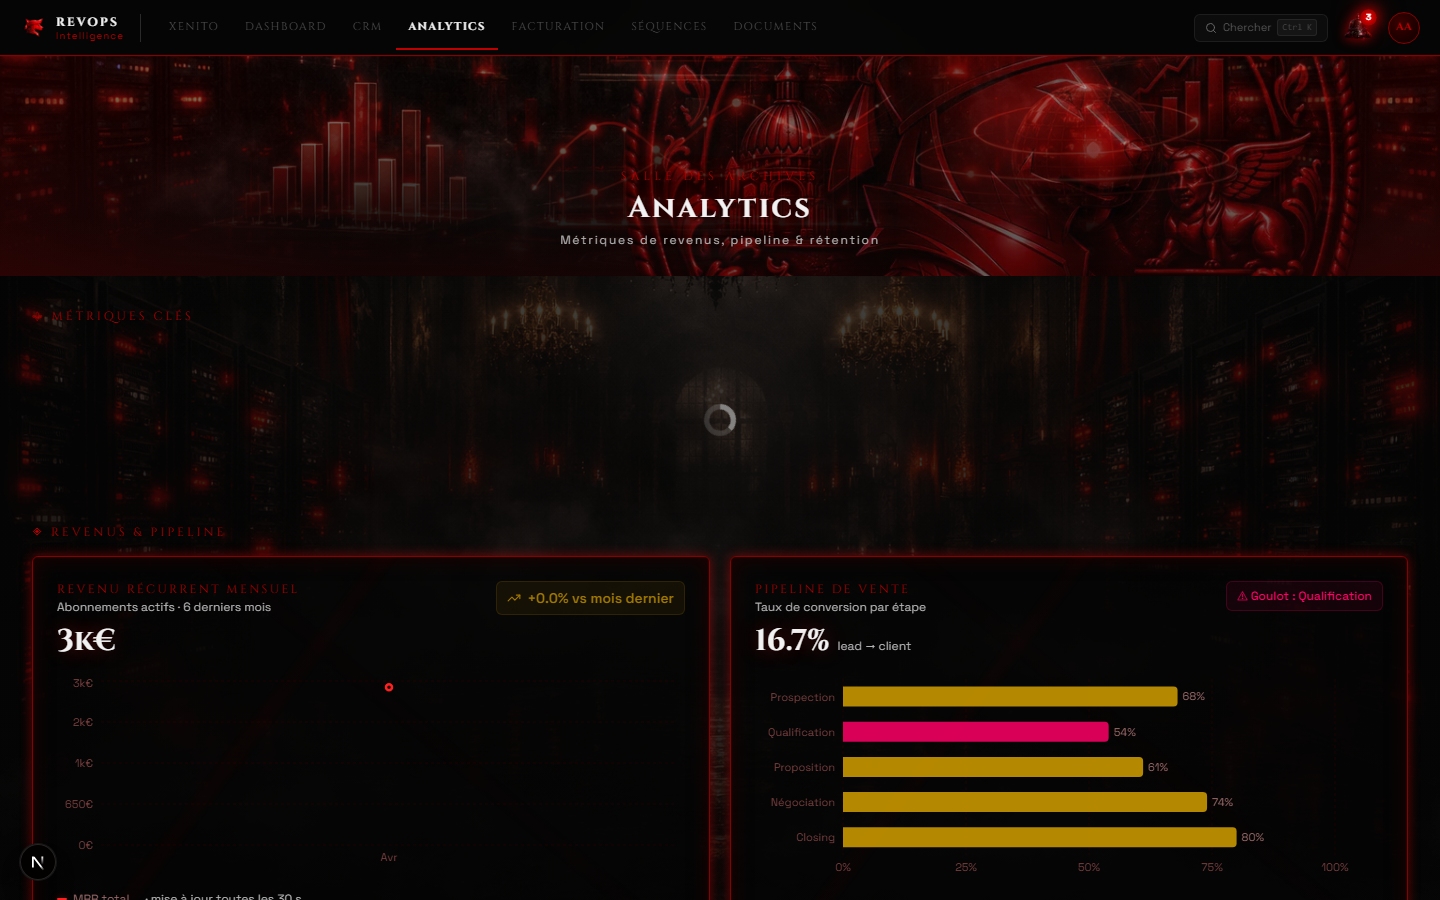
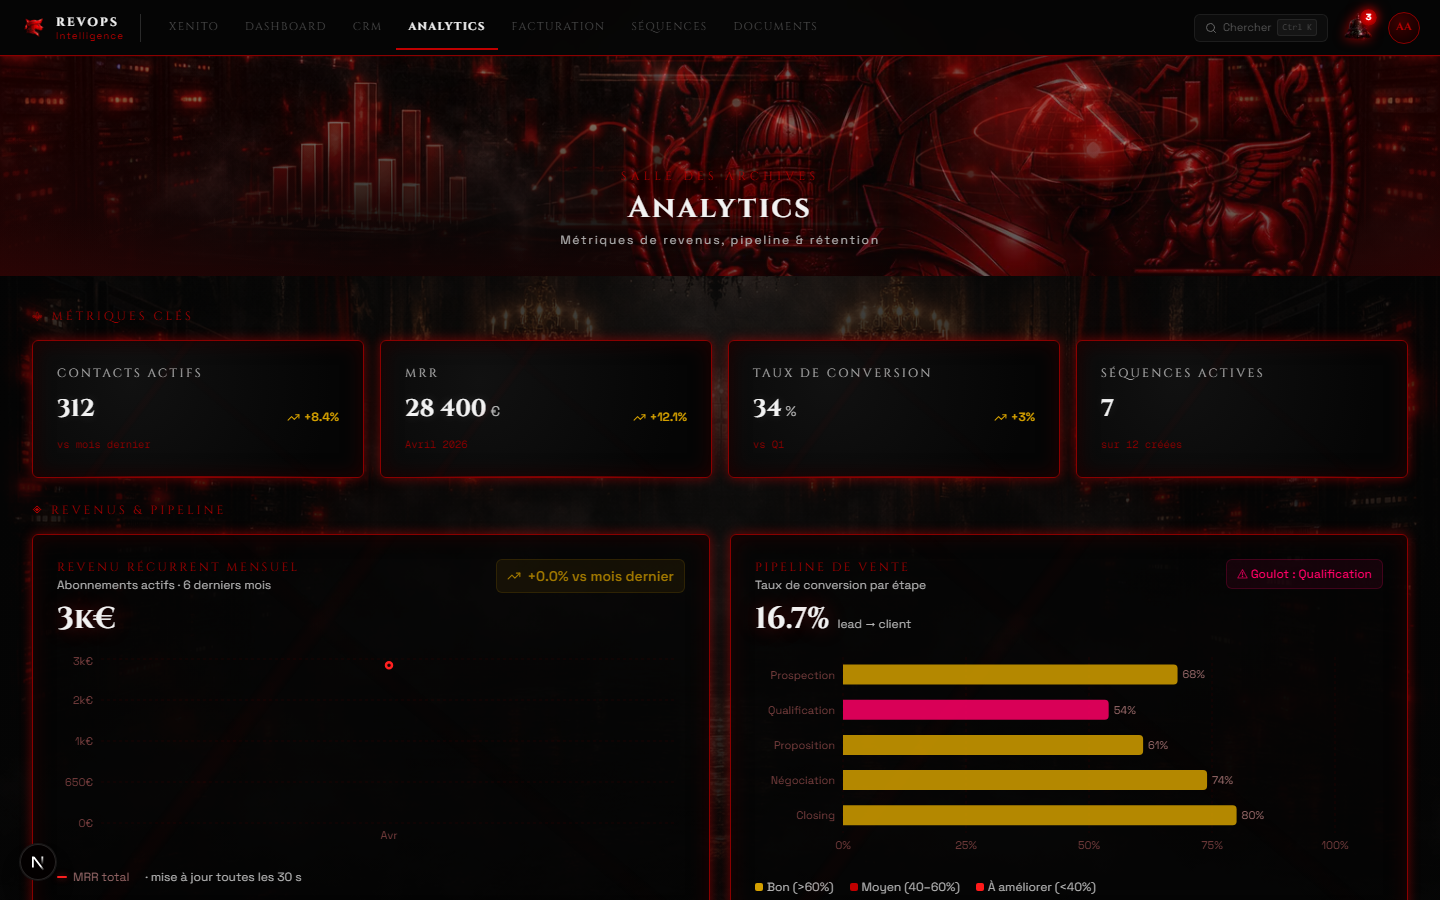
fix: show demo data immediately instead of loading spinner
Remove isLoading spinner guards in all 7 components — components
already have fallback/demo data defined, so render them immediately
while the API call is in flight (or fails).

Affected:
- billing/invoices-list.tsx
- analytics/metrics-cards.tsx
- analytics/churn-rate-chart.tsx
- analytics/mrr-chart.tsx
- analytics/conversion-funnel-chart.tsx
- analytics/billing-status-chart.tsx
- sequences/sequences-list.tsx

Retake screenshots for analytics, billing, and sequences pages.

diff --git a/frontend/src/components/analytics/mrr-chart.tsx b/frontend/src/components/analytics/mrr-chart.tsx
@@ -108,12 +108,7 @@ export function MrrChart() {
         </div>
       </div>
 
-      {isLoading ? (
-        <div className="flex h-48 items-center justify-center">
-          <Spinner size="lg" />
-        </div>
-      ) : (
-        <ResponsiveContainer width="100%" height={200}>
+      <ResponsiveContainer width="100%" height={200}>
           <AreaChart data={chartData} margin={CHART.margin}>
             <defs>
               <linearGradient id="mrrGradBrand" x1="0" y1="0" x2="0" y2="1">
@@ -149,7 +144,6 @@ export function MrrChart() {
             />
           </AreaChart>
         </ResponsiveContainer>
-      )}
 
       {/* Legend */}
       <div className="flex items-center gap-4 text-xs" style={{ color: C.secondary }}>

diff --git a/frontend/src/components/analytics/conversion-funnel-chart.tsx b/frontend/src/components/analytics/conversion-funnel-chart.tsx
@@ -117,12 +117,7 @@ export function ConversionFunnelChart() {
         )}
       </div>
 
-      {isLoading ? (
-        <div className="flex h-48 items-center justify-center">
-          <Spinner size="lg" />
-        </div>
-      ) : (
-        <ResponsiveContainer width="100%" height={210}>
+      <ResponsiveContainer width="100%" height={210}>
           <BarChart
             layout="vertical"
             data={chartData}
@@ -163,7 +158,6 @@ export function ConversionFunnelChart() {
             </Bar>
           </BarChart>
         </ResponsiveContainer>
-      )}
 
       {/* Legend */}
       <div className="flex items-center gap-4 text-xs flex-wrap" style={{ color: "var(--gray-silver)" }}>

diff --git a/frontend/src/components/analytics/billing-status-chart.tsx b/frontend/src/components/analytics/billing-status-chart.tsx
@@ -118,12 +118,7 @@ export function BillingStatusChart() {
         )}
       </div>
 
-      {isLoading ? (
-        <div className="flex h-48 items-center justify-center">
-          <Spinner size="lg" />
-        </div>
-      ) : (
-        <div className="flex items-center gap-4">
+      <div className="flex items-center gap-4">
           {/* Donut */}
           <ResponsiveContainer width={160} height={160}>
             <PieChart>
@@ -162,7 +157,6 @@ export function BillingStatusChart() {
             ))}
           </div>
         </div>
-      )}
     </div>
   );
 }

diff --git a/frontend/src/components/analytics/churn-rate-chart.tsx b/frontend/src/components/analytics/churn-rate-chart.tsx
@@ -63,14 +63,6 @@ export function ChurnRateChart() {
   const nrr_h   = nrrHealth(nrr);
   const churn_h = churnHealth(churnPct);
 
-  if (isLoading) {
-    return (
-      <div className="tablette-marbre flex items-center justify-center" style={{ minHeight: 200, background: "rgba(5,5,5,0.82)", border: "1px solid var(--red-dark)" }}>
-        <Spinner size="lg" />
-      </div>
-    );
-  }
-
   return (
     <div className="tablette-marbre flex flex-col gap-5"
       style={{ background: "rgba(5,5,5,0.82)", border: "1px solid var(--red-dark)" }}

diff --git a/frontend/src/components/sequences/sequences-list.tsx b/frontend/src/components/sequences/sequences-list.tsx
@@ -231,11 +231,7 @@ export function SequencesList() {
       </div>
 
       {/* ── Liste ── */}
-      {isLoading ? (
-        <div className="flex items-center justify-center py-16">
-          <Spinner size="lg" />
-        </div>
-      ) : sequences.length === 0 ? (
+      {sequences.length === 0 ? (
         <div className="tablette-marbre p-12 text-center">
           <p className="font-cinzel text-sm tracking-[0.2em]" style={{ color: "var(--gray-silver)" }}>
             Aucun rituel dans les archives. Créez-en un !

diff --git a/frontend/src/components/billing/invoices-list.tsx b/frontend/src/components/billing/invoices-list.tsx
@@ -43,15 +43,7 @@ export function InvoicesList() {
     () => billingApi.listInvoices()
   );
 
-  if (isLoading) {
-    return (
-      <div className="flex items-center justify-center py-16">
-        <Spinner size="lg" />
-      </div>
-    );
-  }
-
-  const invoices: Invoice[] = error ? DEMO_INVOICES : (data?.items ?? DEMO_INVOICES);
+  const invoices: Invoice[] = (isLoading || error || !data) ? DEMO_INVOICES : (data?.items ?? DEMO_INVOICES);
 
   if (invoices.length === 0) {
     return (

diff --git a/frontend/src/components/analytics/metrics-cards.tsx b/frontend/src/components/analytics/metrics-cards.tsx
@@ -68,13 +68,6 @@ export function MetricsCards() {
     () => analyticsApi.getMetrics()
   );
 
-  if (isLoading) {
-    return (
-      <div className="flex items-center justify-center py-16">
-        <Spinner size="lg" />
-      </div>
-    );
-  }
 
   const metrics = error ? placeholderMetrics : (data ?? placeholderMetrics);
 
